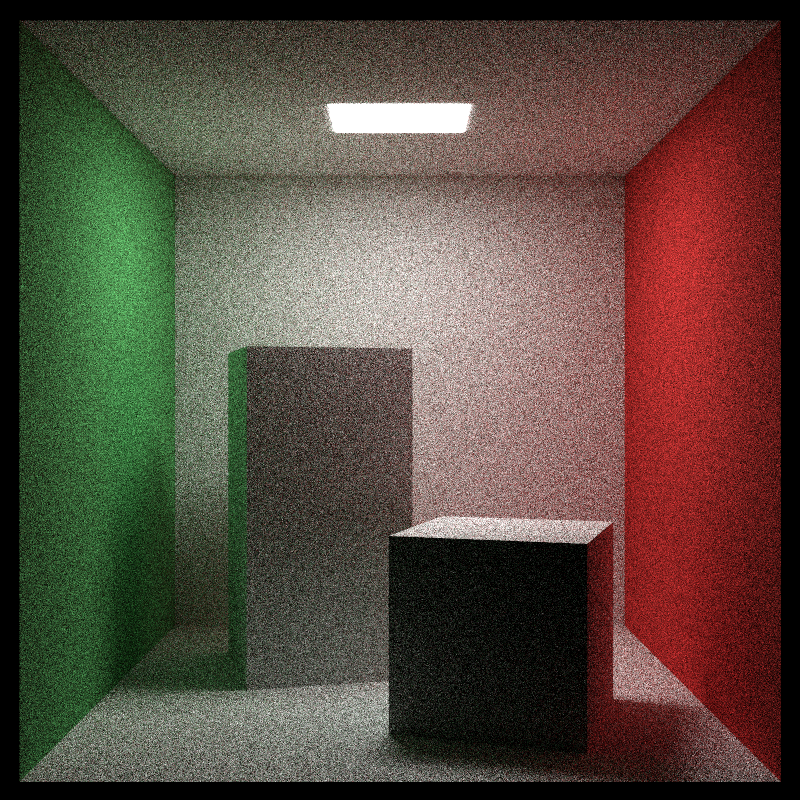
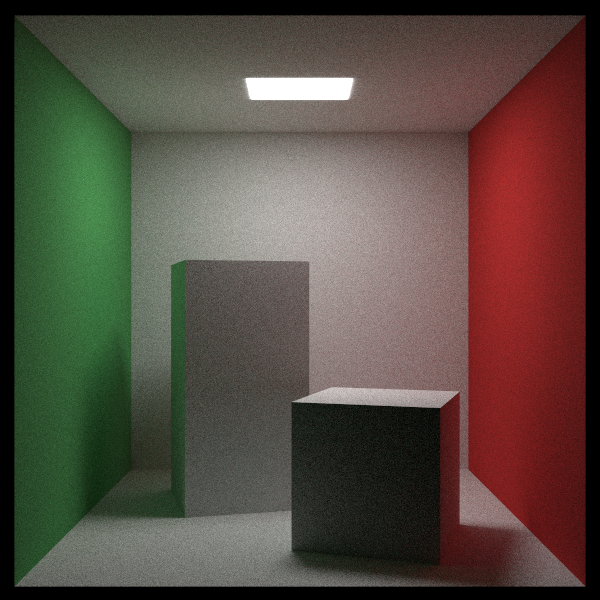
cosine density pdf

diff --git a/src/main.rs b/src/main.rs
@@ -326,7 +326,7 @@ fn cornell_box() -> (Camera, SceneColliders, Rgb, f32, u32, u32, usize, usize) {
     let aspect_ratio = 1.0;
     let image_width = 600;
     let image_height = (image_width as f32 / aspect_ratio) as u32;
-    let samples_per_pixel = 1000;
+    let samples_per_pixel = 500;
     let max_depth = 200;
     let background = Rgb::new(0.0, 0.0, 0.0);
 
@@ -351,7 +351,7 @@ fn cornell_box() -> (Camera, SceneColliders, Rgb, f32, u32, u32, usize, usize) {
     let red = Material::lambertian(Texture::solid_color(Rgb::new(0.65, 0.05, 0.05)));
     let white = Material::lambertian(Texture::solid_color(Rgb::new(0.73, 0.73, 0.73)));
     let green = Material::lambertian(Texture::solid_color(Rgb::new(0.12, 0.45, 0.15)));
-    let light = Material::emissive(Rgb::new(20.0, 20.0, 20.0));
+    let light = Material::emissive(Rgb::new(25.0, 25.0, 25.0));
 
     scene.add(Geometry::yzrect(0.0, 555.0, 0.0, 555.0, 555.0, green));
     scene.add(Geometry::yzrect(0.0, 555.0, 0.0, 555.0, 0.0, red));
@@ -465,7 +465,7 @@ fn final_scene() -> (Camera, SceneColliders, Rgb, f32, u32, u32, usize, usize) {
     let aspect_ratio = 1.0;
     let image_width = 800;
     let image_height = (image_width as f32 / aspect_ratio) as u32;
-    let samples_per_pixel = 300;
+    let samples_per_pixel = 50;
     let max_depth = 50;
     let background = Rgb::new(0.0, 0.0, 0.0);
 

diff --git a/src/pdf.rs b/src/pdf.rs
@@ -1,0 +1,42 @@
+#[path = "ray.rs"] mod ray;
+pub use ray::*;
+
+
+pub enum PDFType {
+    CosinePDF(ONB),
+}
+
+
+pub struct PDF {
+    pub pdf_type: PDFType,
+}
+
+impl PDF {
+    pub fn cosine_pdf(w: Vec3) -> Self {
+        Self {
+            pdf_type: PDFType::CosinePDF(ONB::build_from_w(w))
+        }
+    }
+
+
+    pub fn value_cosine(&self, direction: Vec3, uvw: &ONB) -> f32 {
+        let cosin = direction.normalize().dot(uvw.w);
+        if cosin <= 0.0 { 0.0 } else { cosin / PI }
+    }
+    pub fn generate_cosine(&self, uvw: &ONB) -> Vec3 {
+        uvw.local(random_cosin_direction())
+    }
+
+    pub fn value(&self, direction: Vec3) -> f32 {
+        match &self.pdf_type {
+            PDFType::CosinePDF(uvw) => self.value_cosine(direction, uvw),
+            _ => 0.0,
+        }
+    }
+    pub fn generate(&self) -> Vec3 {
+        match &self.pdf_type {
+            PDFType::CosinePDF(uvw) => self.generate_cosine(uvw),
+            _ => Vec3::origin(),
+        }
+    }
+}

diff --git a/src/render.rs b/src/render.rs
@@ -25,7 +25,12 @@ pub fn ray_color(r: Ray, background: Rgb, scene: &SceneColliders, depth: usize) 
             let emitted = rec.material.emitted(rec.u, rec.v, rec.point, &scene.atlas);
             let mut pdf: f32 = 0.0;
             match rec.material.scatter(r, &mut attenuation, rec.clone(), &mut scattered, &mut pdf, &scene.atlas) {
-                true => return emitted + attenuation * rec.material.scattering_pdf(r, rec.clone(), &mut scattered) * ray_color(scattered, background, scene, depth - 1) / pdf,
+                true => {
+                    let p = PDF::cosine_pdf(rec.normal);
+                    scattered.reset(rec.point, p.generate(), r.time);
+                    let pdf_val = p.value(scattered.direction);
+                    return emitted + attenuation * rec.material.scattering_pdf(r, rec.clone(), &mut scattered) * ray_color(scattered, background, scene, depth - 1) / pdf_val
+                },
                 false => return emitted
             }
         },

diff --git a/src/vec3.rs b/src/vec3.rs
@@ -192,6 +192,34 @@ pub type Rgb = Vec3;
 pub type Point3 = Vec3;
 
 
+
+
+#[derive(Clone)]
+pub struct ONB {
+    pub u: Vec3,
+    pub v: Vec3,
+    pub w: Vec3
+}
+
+impl ONB {
+    pub fn build_from_w(n: Vec3) -> Self {
+        let w = n.normalize();
+        let a = if w.x.abs() > 0.9 { Vec3::new(0., 1., 0.) } else { Vec3::new(1., 0., 0.) };
+        let v = w.cross(a).normalize();
+        let u = w.cross(v);
+        Self {
+            u: u,
+            v: v,
+            w: w
+        }
+    }
+    pub fn local(&self, a: Vec3) -> Vec3 {
+        self.u * a.x + self.v * a.y + self.w * a.z
+    }
+}
+
+
+
 pub fn random_in_unit_sphere() -> Vec3 {
     loop {
         let p = Vec3::randrange(-1.0, 1.0);

diff --git a/src/material.rs b/src/material.rs
@@ -38,31 +38,6 @@ impl HitRecord {
 }
 
 
-#[derive(Clone)]
-pub struct ONB {
-    pub u: Vec3,
-    pub v: Vec3,
-    pub w: Vec3
-}
-
-impl ONB {
-    pub fn build_from_w(n: Vec3) -> Self {
-        let w = n.normalize();
-        let a = if w.x.abs() > 0.9 { Vec3::new(0., 1., 0.) } else { Vec3::new(1., 0., 0.) };
-        let v = w.cross(a).normalize();
-        let u = w.cross(v);
-        Self {
-            u: u,
-            v: v,
-            w: w
-        }
-    }
-    pub fn local(&self, a: Vec3) -> Vec3 {
-        self.u * a.x + self.v * a.y + self.w * a.z
-    }
-}
-
-
 
 #[derive(Clone)]
 pub enum MaterialType {

diff --git a/src/perlin.rs b/src/perlin.rs
@@ -1,5 +1,5 @@
-#[path = "ray.rs"] mod ray;
-pub use ray::*;
+#[path = "pdf.rs"] mod pdf;
+pub use pdf::*;
 
 #[derive(Clone)]
 pub struct Perlin {
